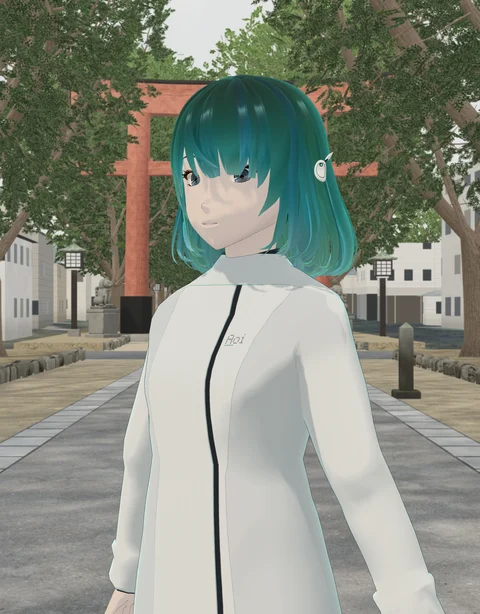
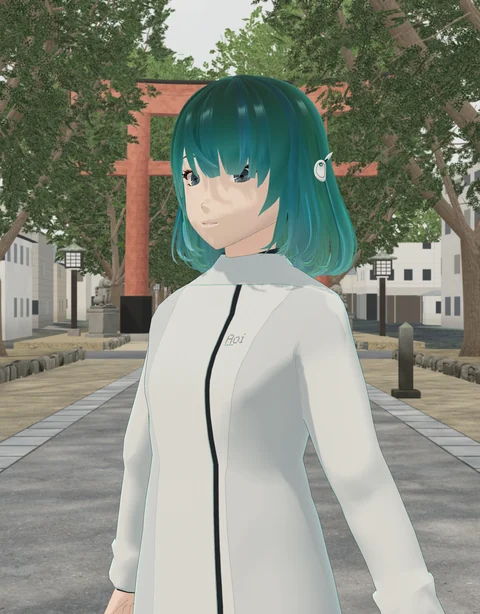
2026-10-03: 認知拡張の入れ子の図を外す・碧の肌

diff --git a/index.html b/index.html
@@ -586,16 +586,6 @@ html[lang="en"] .tg{grid-template-columns:6.6em 1fr}
       <figcaption class="q-cap" data-i18n-en="The landform around Hikawa Shrine (approx. 4.8 km E–W × 3.7 km N–S), seen from the south-southwest. Height exaggerated 15×; contours every 2 m. The rings and the names at the ends of the lines (mitsulab's working names for kinds of tools) are illustrative, not locations. (GSI DEM5A, processed by mitsulab; approach © OpenStreetMap contributors)">氷川神社のまわり（東西 約 4.8 km・南北 約 3.7 km）の地形を南南西から。高さは 15 倍に強調。等高線は 2 m おき。光の輪と、線の先の名前（mitsulab が考えている道具の種類の呼び名）は絵の配置で、地点を指すものではない。（国土地理院 DEM5A を mitsulab が加工／参道 © OpenStreetMap contributors）</figcaption>
     </figure>
     <div class="defs" id="define">
-      <div class="nest" aria-label="認知拡張は知覚を含む">
-        <div class="nest-outer">
-          <span class="nest-name">認知拡張 <span class="nest-en">Cognitive Augmentation</span></span>
-          <span class="nest-items" data-i18n-en="language · information · memory · knowledge · reasoning · models of others (living things, machines)">言語・情報・記憶・知識・推論・他者（生きもの・機械）のモデル</span>
-          <div class="nest-inner">
-            <span class="nest-name">知覚 <span class="nest-en">Perception</span></span>
-            <span class="nest-items" data-i18n-en="what the five senses can take in, widened with tools">五感で受け取れる範囲を、道具で広げる</span>
-          </div>
-        </div>
-      </div>
       <dl class="deflist">
         <div><dt data-i18n-en="Cognitive Augmentation">認知拡張</dt><dd data-i18n-en="Using language, information, memory, knowledge, reasoning and models of others (living things, machines) to widen how the world is organised for a subject: what it is distinguished as, what it is related to, what matters, over what span of time, and how one can engage with it. This includes perception: widening, with tools, what the five senses can take in. It does not guarantee improved ability; it creates conditions in which a new organisation can arise.">言語・情報・記憶・知識・推論・他者（生きもの・機械）のモデルを用いて、主体にとって世界が何として区別され、何と関係づけられ、何が重要となり、どの時間の幅で、どう関われるか──その組み立てを広げること。五感で受け取れる範囲を道具で広げること（知覚）も、ここに含む。能力が上がることの保証ではなく、新しい組み立てが起こりうる条件をつくること。</dd></div>
         <div><dt>Qualium <span class="q-yomi">クオリウム</span></dt><dd data-i18n-en="mitsulab's name for the place and system where, through Aoi, the cognitive spaces of people, nature and machines connect. (-ium: a place, as in auditorium.)">碧を介して、人・自然・機械の認知空間がつながる場と仕組み。mitsulab はこれを Qualium と呼んでいます。（-ium＝場。auditorium と同じ語尾）</dd></div>
